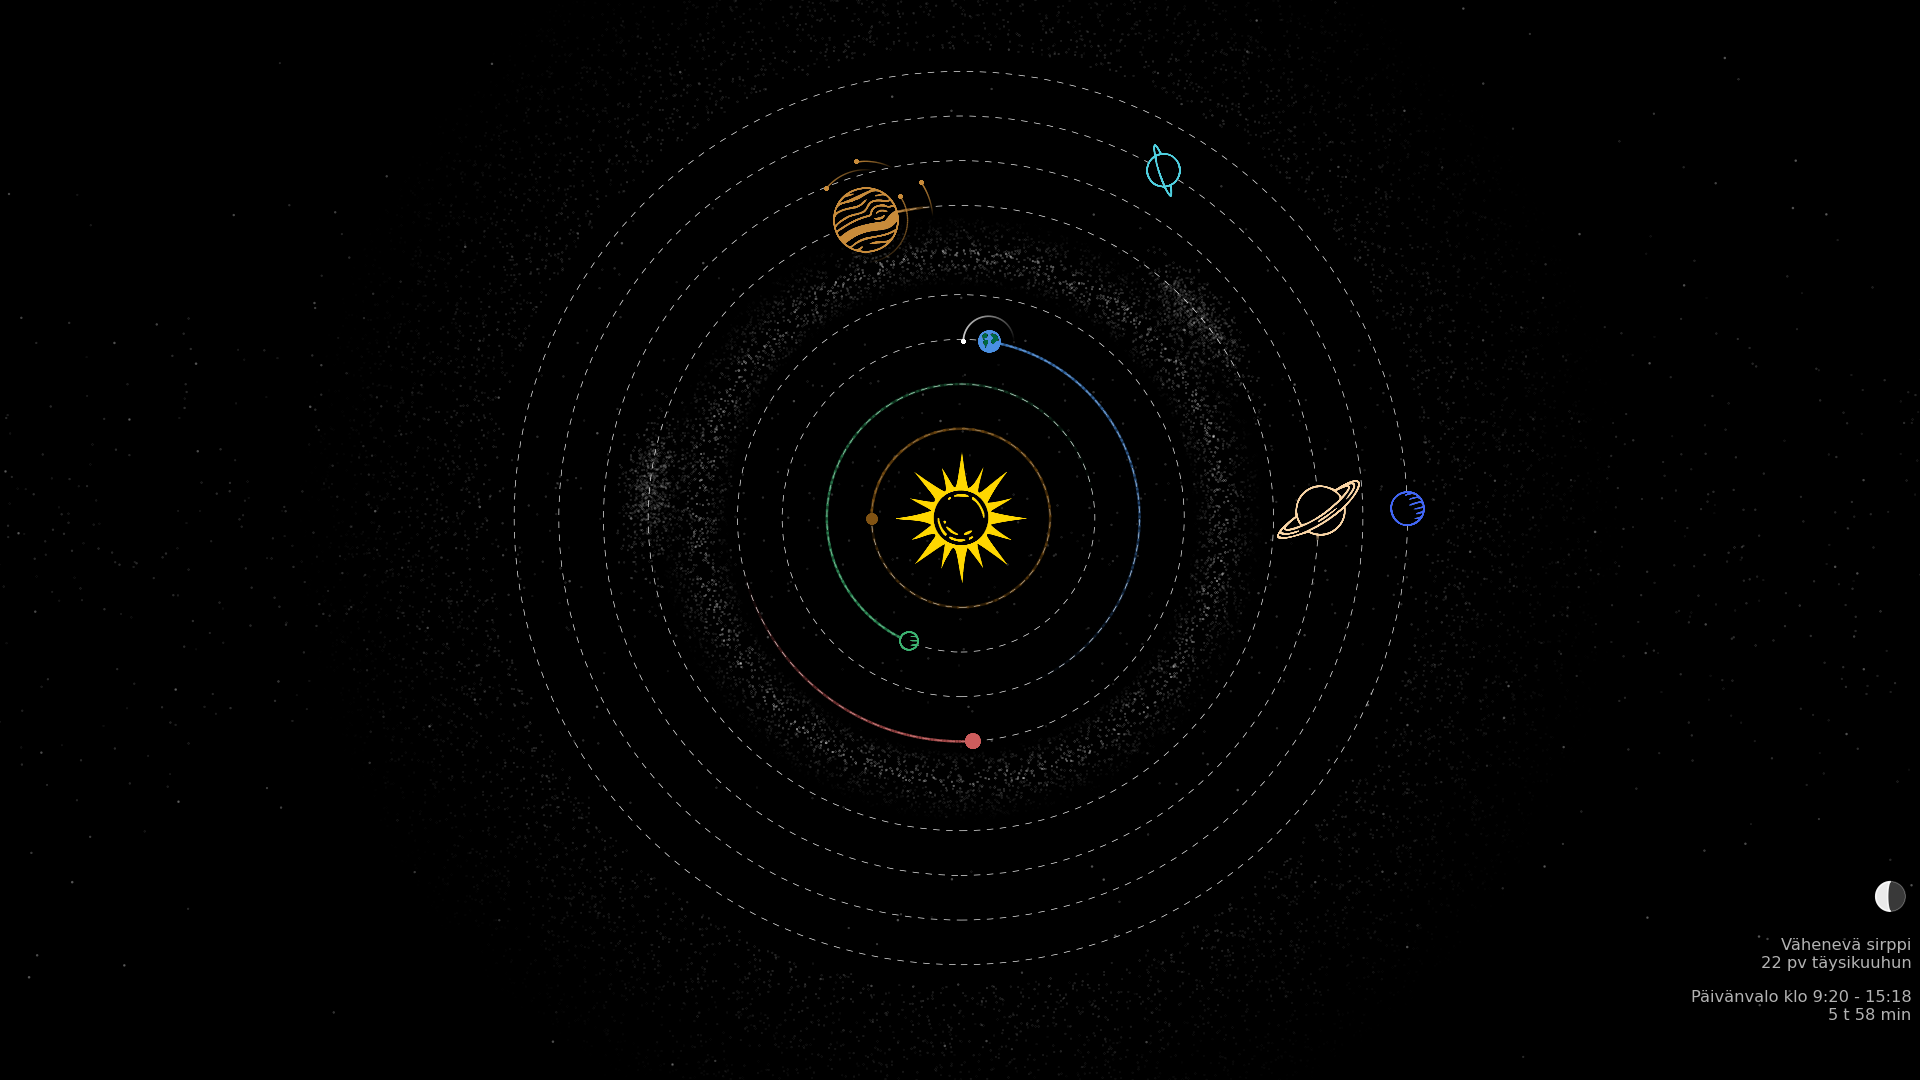
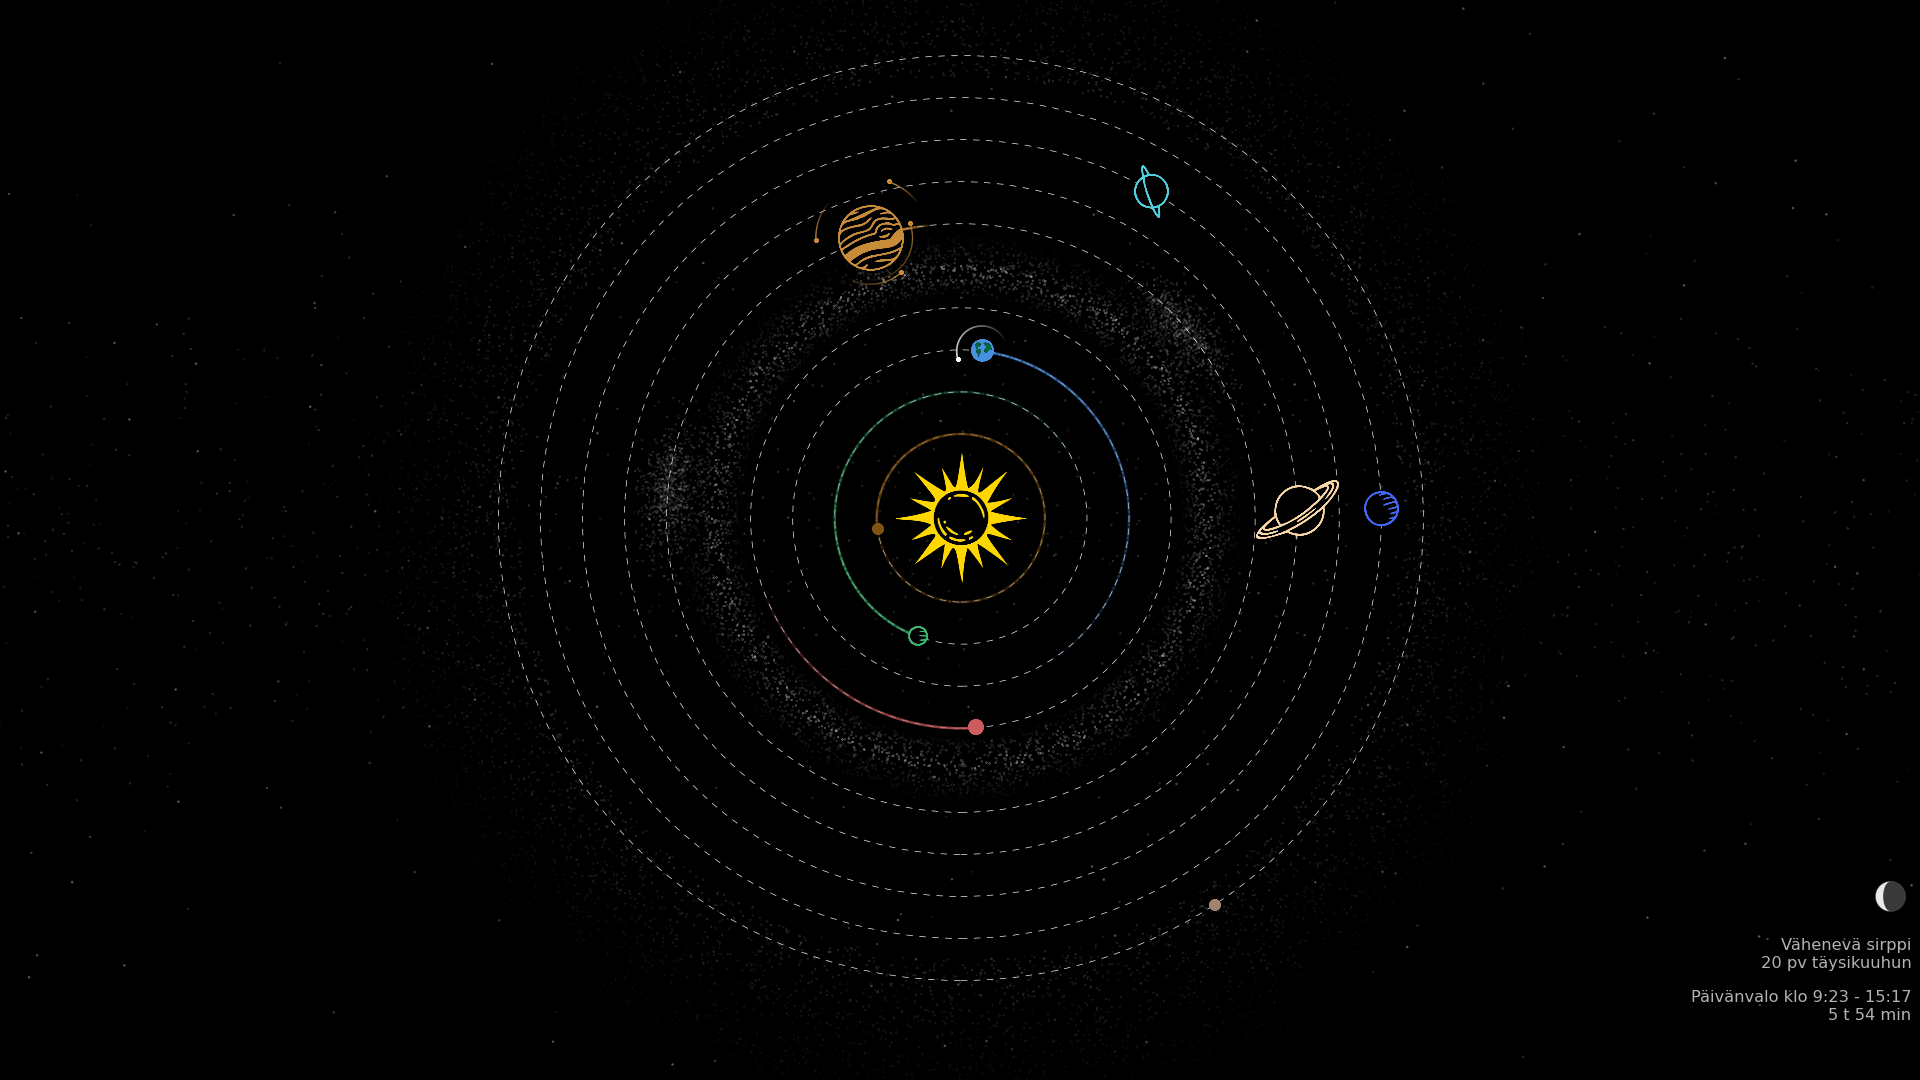
Pluto added

diff --git a/solarmap.py b/solarmap.py
@@ -11,11 +11,6 @@ import datetime
 
 
 #Object additions
-#TODO: Next largest object:
-#       Titan (Saturn)
-#       Triton (Neptune)
-#       Pluto
-#       ...Phobos and Deimos (Mars)
 #TODO: Comets (Halley, Hale-Bopp)
 
 #Visual customizations
@@ -24,7 +19,6 @@ import datetime
 #TODO: Optional background stars
 #TODO: Optional colors to rings
 #TODO: Optional colors to background
-#TODO: Earth green color for landmasses
 
 
 # CONFIGURATION VARIABLES
@@ -59,7 +53,8 @@ planet_colors = {
     'Jupiter':  '#C88B3A',
     'Saturn':   '#FAD5A5',
     'Uranus':   '#4FD0E0',
-    'Neptune':  '#4166F5'
+    'Neptune':  '#4166F5',
+    'Pluto':    '#A0826D'
 }
 
 # -----------------------------------------------
@@ -68,7 +63,7 @@ planet_colors = {
 
 # Planet list
 planets = [Body.Mercury, Body.Venus, Body.Earth, Body.Mars,
-    Body.Jupiter, Body.Saturn, Body.Uranus, Body.Neptune]
+    Body.Jupiter, Body.Saturn, Body.Uranus, Body.Neptune, Body.Pluto]
 
 # Convert planet SVG icons to OffsetImages
 def svg_to_imagebox(svg_path, zoom=0.1, color=None):
@@ -117,7 +112,7 @@ fig.set_size_inches(width_px/dpi, height_px/dpi)
 fig.patch.set_facecolor('black')
 ax.set_facecolor('black')
 cx, cy = 0, 0
-r_base = 0.85  # Ring radius base unit, change for bigger rings
+r_base = 0.80  # Ring radius base unit, change for bigger/smaller rings
 
 # Taskbar offset upwards percentage, change to move image upwards
 taskbar_offset = 0.02
@@ -171,7 +166,7 @@ for _ in range(1, 4): # Rings 2 to 4
     rings.append(current)
 current += step * 2 # Double gap
 rings.append(current) # Ring 5
-for _ in range(5, 8): # Rings 6 to 8
+for _ in range(5, 9): # Rings 6 to 9
     current += step
     rings.append(current)
 for r in rings: # Draw rings, dashed lines
@@ -358,9 +353,9 @@ jupiter_y = cy + jupiter_r * math.sin(jupiter_theta)
 
 moon_radii = {
     'Io': 0.10,
-    'Europa': 0.12,
-    'Ganymede': 0.14,
-    'Callisto': 0.16
+    'Europa': 0.11,
+    'Ganymede': 0.13,
+    'Callisto': 0.14
 }
 
 jm = JupiterMoons(utc)
@@ -380,7 +375,7 @@ for moon_name, moon_vec in moon_data.items():
     x = jupiter_x + r * math.cos(theta)
     y = jupiter_y + r * math.sin(theta)
 
-    imagebox = svg_to_imagebox("icons/jupiter_moon.svg", zoom=0.08, color=jupiter_moon_color)
+    imagebox = svg_to_imagebox("icons/moon.svg", zoom=0.08, color=jupiter_moon_color)
     ab = AnnotationBbox(imagebox, (x, y), frameon=False)
     ax.add_artist(ab)
 
@@ -416,7 +411,8 @@ if show_trails:
         'Jupiter': 4333,
         'Saturn': 10759,
         'Uranus': 30687,
-        'Neptune': 60190
+        'Neptune': 60190,
+        'Pluto': 90560
     }
     
     for planet in planets:
@@ -482,12 +478,12 @@ if show_trails:
 
 # Jupiter moons trails
 if show_trails:
-    # Arc fractions for each moon
+    # Arc fraction lengths for each moon
     arc_fractions = {
         'Io': 1/3,
-        'Europa': 1/6,
-        'Ganymede': 1/10,
-        'Callisto': 1/12
+        'Europa': 1/5,
+        'Ganymede': 1/8,
+        'Callisto': 1/10
     }
     
     for moon_name in moon_data.keys():
@@ -605,23 +601,23 @@ if show_info_text:
 
     # Determine phase name
     if illumination > 0.99:
-        phase_name = "Täysikuu"  # Full moon
+        phase_name = "Täysikuu"  # "Full moon"
     elif illumination < 0.01:
-        phase_name = "Uusikuu"  # New moon
-    elif is_waxing:
+        phase_name = "Uusikuu"  # "New moon"
+    elif is_waxing: # Waxing
         if illumination > 0.55:
-            phase_name = "Kasvava kupera kuu"  # Waxing gibbous
+            phase_name = "Kasvava kupera kuu"  # "Waxing gibbous"
         elif illumination > 0.45:
-            phase_name = "Kuun ensimmäinen neljännes"  # First quarter
+            phase_name = "Puolikuu (ensimmäinen neljännes)"  # "First quarter"
         else:
-            phase_name = "Kasvava sirppi"  # Waxing crescent
+            phase_name = "Kasvava sirppi"  # "Waxing crescent"
     else:  # Waning
         if illumination > 0.55:
-            phase_name = "Vähenevä kupera kuu"  # Waning gibbous
+            phase_name = "Vähenevä kupera kuu"  # "Waning gibbous"
         elif illumination > 0.45:
-            phase_name = "Kuun viimeinen neljännes"  # Last quarter
+            phase_name = "Puolikuu (viimeinen neljännes)"  # "Last quarter"
         else:
-            phase_name = "Vähenevä sirppi"  # Waning crescent
+            phase_name = "Vähenevä sirppi"  # "Waning crescent"
 
     # Position for moon phase circle
     moon_indicator_x = text_x - 0.05
@@ -629,8 +625,7 @@ if show_info_text:
     moon_radius = 0.035
 
     # Draw dark gray base circle
-    ax.add_patch(plt.Circle((moon_indicator_x, moon_indicator_y), moon_radius, 
-                            fill=True, color='#404040', alpha=0.9, zorder=10))
+    ax.add_patch(plt.Circle((moon_indicator_x, moon_indicator_y), moon_radius, fill=True, color='#404040', alpha=0.9, zorder=10))
 
     # Draw illuminated part
     if illumination > 0.01:
@@ -654,8 +649,8 @@ if show_info_text:
             x_lit = np.concatenate([x_outer, x_terminator[::-1]])
             y_lit = np.concatenate([y_outer, y_terminator[::-1]])
             
-            ax.fill(x_lit, y_lit, color='white', alpha=0.9, zorder=11)
-            
+            ax.fill(x_lit, y_lit, color='white', alpha=0.9, zorder=11, linewidth=0)
+
         else:
             # Left side lit
             x_outer = moon_indicator_x - moon_radius * np.cos(theta)
@@ -674,11 +669,7 @@ if show_info_text:
             x_lit = np.concatenate([x_outer, x_terminator[::-1]])
             y_lit = np.concatenate([y_outer, y_terminator[::-1]])
             
-            ax.fill(x_lit, y_lit, color='white', alpha=0.9, zorder=11)
-
-    # Draw outline
-    ax.add_patch(plt.Circle((moon_indicator_x, moon_indicator_y), moon_radius, 
-                            fill=False, color='white', linewidth=0.1, zorder=12))
+            ax.fill(x_lit, y_lit, color='white', alpha=0.9, zorder=11, linewidth=0)
 
     # Search for next full moon (phase 180°) within next 30 days
     next_full_moon = SearchMoonPhase(180, utc, 30)
